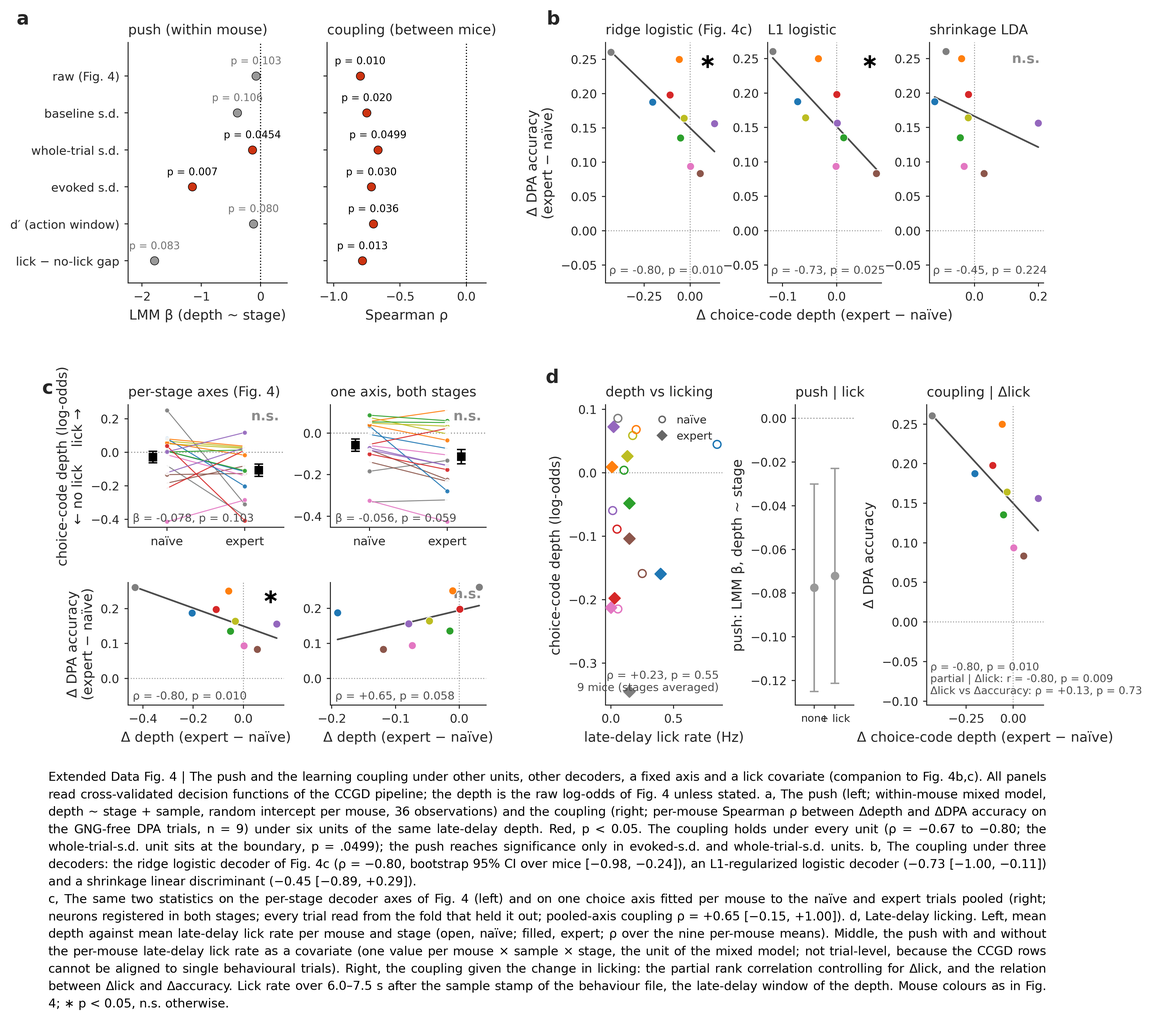
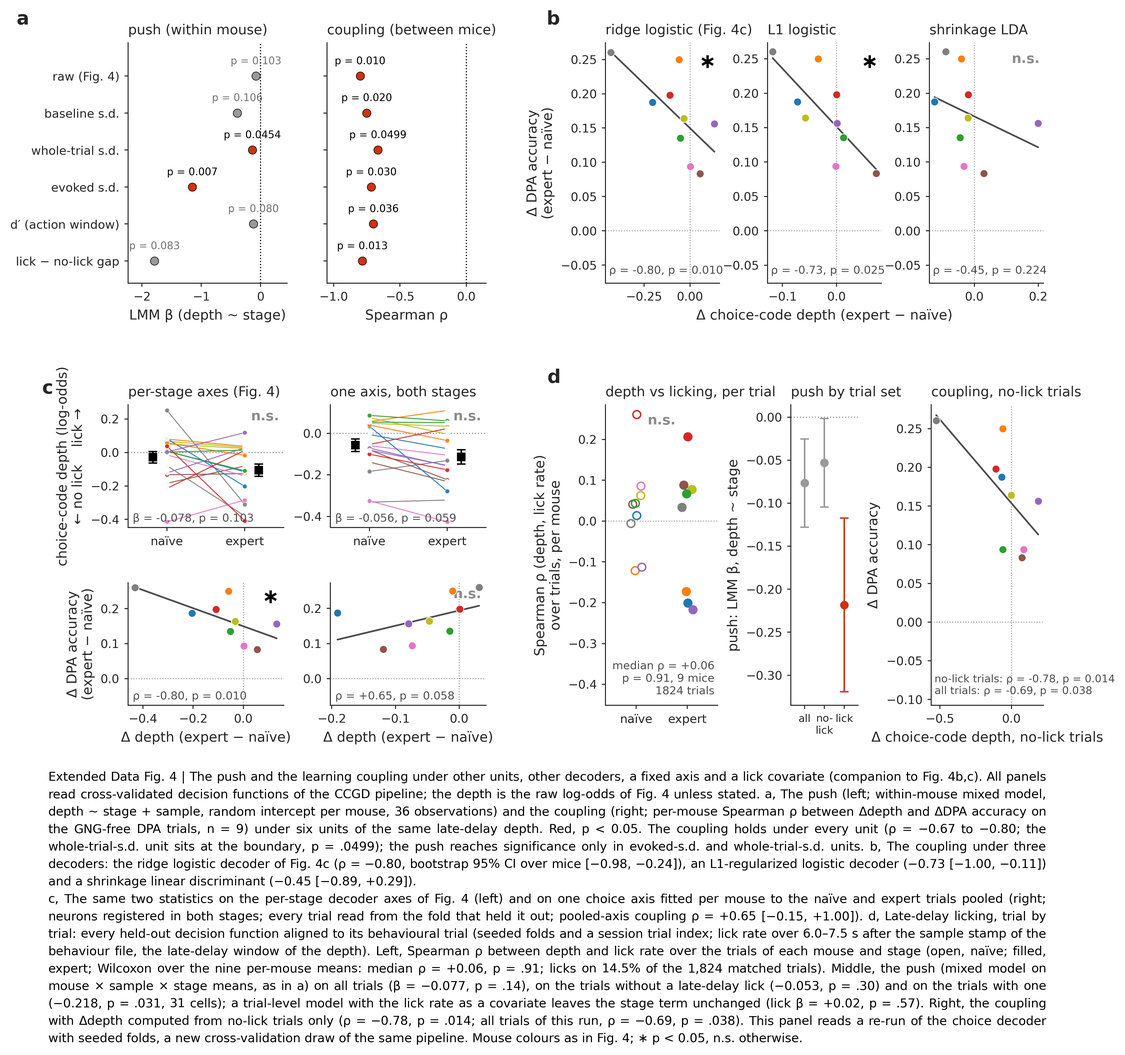
ED 4d: trial-level lick control on the CCGD depth (seeded folds + session trial index); draft v12.39
run_overlaps.py writes a within-session trial column and seeds RepeatedStratifiedKFold; choice-only re-run
--tag trial + exp_lick_control_trial.py align every held-out decision function to its behaviour-file trial.
Lick rate carries no depth information (per-mouse median ρ +0.06, p .91; covariate β +0.02, p .57); coupling
on no-lick trials ρ −0.78, p .014. The mouse-level control's .mat sample mapping (pair 1-4 = odor_pair
0,2,1,3) is fixed. §4 third caveat and the ED 4d legend rewritten; docs and memory synced.

Claude-Session: https://claude.ai/code/session_01PzGzWMKHPqqyp4poHedntF

diff --git a/overlaps/fig_ed3_coupling.py b/overlaps/fig_ed3_coupling.py
@@ -232,41 +232,44 @@ def panel_cc(fig, gs):
 
 # ══ d — late-delay licking on the CCGD depth (exp_lick_control_ccgd.py) ═══════════════════════
 def panel_dd(fig, gs):
-    L = C['lick_ccgd']; ms = L['ms']; g = L['g']
+    """ED 4d (2026-09-15, trial level): exp_lick_control_trial.py — every held-out CCGD decision function aligned to
+    its behavioural trial via the session trial index written by run_overlaps.py (`--tag trial` re-run)."""
+    L = C['lick_trial']; R = L['rho']
     axes = []
+    # left: per mouse x stage Spearman(depth, lick rate) over trials
     ax = fig.add_subplot(gs[0, 0]); axes.append(ax)
-    for _, r in ms.iterrows():
-        ax.scatter(r.lick, r.depth, s=30, color=MC[r.mouse], marker='o' if r.stage == 'Naive' else 'D',
-                   facecolors=MC[r.mouse] if r.stage == 'Expert' else 'none', linewidths=1.0, zorder=3)
-    per = ms.groupby('mouse')[['depth', 'lick']].mean(); rm, pm = spearmanr(per.depth, per.lick)   # per mouse, stages averaged (no pseudoreplication)
+    for _, r in R.iterrows():
+        ax.scatter(r.st + np.random.RandomState(MICE.index(r.mouse)).uniform(-0.12, 0.12), r.rho, s=30, color=MC[r.mouse],
+                   marker='o', facecolors=MC[r.mouse] if r.st == 1 else 'none', linewidths=1.0, zorder=3)
     ax.axhline(0, ls=':', color='0.6', lw=0.7)
-    ax.set_xlabel('late-delay lick rate (Hz)'); ax.set_ylabel('choice-code depth (log-odds)')
-    ax.set_title('depth vs licking', loc='left', fontsize=TITLE_FS)
-    ax.text(0.97, 0.04, f'ρ = {rm:+.2f}, p = {pm:.2f}\n9 mice (stages averaged)', transform=ax.transAxes, ha='right', va='bottom', fontsize=PS*6.5, color='0.3')
-    ax.legend(handles=[mlines.Line2D([0], [0], marker='o', mfc='none', color='0.4', ls='none', ms=4.5, label='naïve'),
-                       mlines.Line2D([0], [0], marker='D', color='0.4', ls='none', ms=4.5, label='expert')],
-              frameon=False, loc='upper right', handletextpad=0.3)
-    ax = fig.add_subplot(gs[0, 1]); axes.append(ax)
-    m0, m1 = L['m0'], L['m1']; ticks = []
-    for i, (lab, bta, se, p) in enumerate([('none', *m0), ('+ lick', *m1[:3])]):
+    ax.set_xticks([0, 1]); ax.set_xticklabels(['naïve', 'expert']); ax.set_xlim(-0.6, 1.6)
+    ax.set_ylabel('Spearman ρ (depth, lick rate)\nover trials, per mouse')
+    ax.set_title('depth vs licking, per trial', loc='left', fontsize=TITLE_FS)
+    pw = L['wilcoxon_p']; sig = pw < 0.05
+    ax.text(0.5, 0.97, '∗' if sig else 'n.s.', transform=ax.transAxes, ha='center', va='top', fontsize=PS*(12 if sig else 8), fontweight='bold', color='k' if sig else '0.55')
+    lo, hi = ax.get_ylim(); ax.set_ylim(lo - 0.40 * (hi - lo), hi)
+    ax.text(0.97, 0.03, f'median ρ = {L["per"].median():+.2f}\np = {pw:.2f}, 9 mice\n{L["n_trials"]} trials', transform=ax.transAxes, ha='right', va='bottom', fontsize=PS*6.5, color='0.3')
+    # middle: the push on all trials, on no-lick trials, and with a trial-level lick covariate
+    ax = fig.add_subplot(gs[0, 1]); axes.append(ax); ticks = []
+    for i, (lab, (bta, se, p)) in enumerate([('all', L['push_all'][:3]), ('no-lick', L['push_nolick'][:3]), ('lick', L['push_lick'][:3])]):
         col = SIGC if p < 0.05 else NSC
-        ax.errorbar(i, bta, se, fmt='o', color=col, ms=5, capsize=3, lw=1.1)
-        ticks.append(lab)
-    ax.axhline(0, ls=':', color='0.6', lw=0.8); ax.set_xticks([0, 1]); ax.set_xticklabels(ticks, fontsize=PS*6.2); ax.set_xlim(-0.9, 1.9)
-    ax.set_ylabel('push: LMM β, depth ~ stage'); ax.set_title('push | lick', loc='left', fontsize=TITLE_FS)
+        ax.errorbar(i, bta, se, fmt='o', color=col, ms=5, capsize=3, lw=1.1); ticks.append(lab)
+    ax.axhline(0, ls=':', color='0.6', lw=0.8); ax.set_xticks([0, 1, 2]); ax.set_xticklabels(['all', 'no-\nlick', 'lick'], fontsize=PS*6.2); ax.set_xlim(-0.7, 2.7)
+    ax.set_ylabel('push: LMM β, depth ~ stage'); ax.set_title('push by trial set', loc='left', fontsize=TITLE_FS)
+    # right: the coupling with Δdepth from no-lick trials only
     ax = fig.add_subplot(gs[0, 2]); axes.append(ax)
     gd = L['gd']
     for m in gd.index:
-        ax.scatter(gd.loc[m, 'dd'], gd.loc[m, 'da'], color=MC[m], s=30, edgecolors='w', linewidths=0.5, zorder=4)
-    z = np.polyfit(gd.dd, gd.da, 1); xx = np.array([gd.dd.min(), gd.dd.max()]); ax.plot(xx, np.polyval(z, xx), '-', color='0.3', lw=1.2)
+        ax.scatter(gd.loc[m, 'dd_nolick'], gd.loc[m, 'da'], color=MC[m], s=30, edgecolors='w', linewidths=0.5, zorder=4)
+    z = np.polyfit(gd.dd_nolick, gd.da, 1); xx = np.array([gd.dd_nolick.min(), gd.dd_nolick.max()]); ax.plot(xx, np.polyval(z, xx), '-', color='0.3', lw=1.2)
     ax.axhline(0, ls=':', color='0.6', lw=0.7); ax.axvline(0, ls=':', color='0.6', lw=0.7)
-    (r0, p0), (rp, pp), (rl, pl) = L['r0'], L['rp'], L['rl']
+    (r0, p0), (rn, pn) = L['r_all'], L['r_nolick']
     lo, hi = ax.get_ylim(); ax.set_ylim(lo - 0.32 * (hi - lo), hi)
-    ax.text(0.03, 0.03, f'ρ = {r0:+.2f}, p = {p0:.3f}\npartial | Δlick: r = {rp:+.2f}, p = {pp:.3f}\nΔlick vs Δaccuracy: ρ = {rl:+.2f}, p = {pl:.2f}',
-            transform=ax.transAxes, ha='left', va='bottom', fontsize=PS*6.2, color='0.3')
-    ax.set_xlabel('Δ choice-code depth (expert − naïve)'); ax.set_ylabel('Δ DPA accuracy')
-    ax.set_title('coupling | Δlick', loc='left', fontsize=TITLE_FS)
-    print(f'd: lick on {L["frac_lick"]:.1%} of trials; push {m0[0]:+.3f} p={m0[2]:.3f} -> {m1[0]:+.3f} p={m1[2]:.3f}; coupling ρ={r0:+.2f} p={p0:.3f} partial r={rp:+.2f} p={pp:.3f}')
+    ax.text(0.03, 0.03, f'no-lick trials: ρ = {rn:+.2f}, p = {pn:.3f}\nall trials: ρ = {r0:+.2f}, p = {p0:.3f}', transform=ax.transAxes, ha='left', va='bottom', fontsize=PS*6.2, color='0.3')
+    ax.set_xlabel('Δ choice-code depth, no-lick trials'); ax.set_ylabel('Δ DPA accuracy')
+    ax.set_title('coupling, no-lick trials', loc='left', fontsize=TITLE_FS)
+    print(f'd: licks on {L["frac_lick"]:.1%} of trials; per-mouse ρ median {L["per"].median():+.2f} p={pw:.3f}; push all {L["push_all"][0]:+.3f} p={L["push_all"][2]:.3f}, '
+          f'no-lick {L["push_nolick"][0]:+.3f} p={L["push_nolick"][2]:.3f}, lick {L["push_lick"][0]:+.3f} p={L["push_lick"][2]:.3f}; trial LMM +lick covariate β_st {L["lmm_lick"][0]:+.3f} p={L["lmm_lick"][2]:.3f} (lick β {L["lmm_lick"][3]:+.3f} p={L["lmm_lick"][4]:.3f}); coupling no-lick ρ={rn:+.2f} p={pn:.3f} (all ρ={r0:+.2f} p={p0:.3f})')
     return axes[0]
 
 
@@ -279,7 +282,7 @@ gsB = outer[0, 6:12].subgridspec(1, 3, wspace=0.42)
 axB = panel_c(fig, gsB)
 gsCC = outer[1, 0:5].subgridspec(2, 2, wspace=0.30, hspace=0.45)
 axCC = panel_cc(fig, gsCC)
-gsDD = outer[1, 6:12].subgridspec(1, 3, wspace=0.75, width_ratios=[1, 0.5, 1])
+gsDD = outer[1, 6:12].subgridspec(1, 3, wspace=0.75, width_ratios=[1, 0.6, 1])
 axDD = panel_dd(fig, gsDD)
 plabel(axA, 'a', dx=-0.62); plabel(axB, 'b', dx=-0.40); plabel(axCC, 'c', dx=-0.48); plabel(axDD, 'd', dx=-0.40)
 
@@ -296,13 +299,17 @@ CAP = [
     'discriminant (−0.45 [−0.89, +0.29]).',
     'c, The same two statistics on the per-stage decoder axes of Fig. 4 (left) and on one choice axis fitted per '
     'mouse to the naïve and expert trials pooled (right; neurons registered in both stages; every trial read from '
-    'the fold that held it out; pooled-axis coupling ρ = +0.65 [−0.15, +1.00]). d, Late-delay licking. Left, mean '
-    'depth against mean late-delay lick rate per mouse and stage (open, naïve; filled, expert; ρ over the nine '
-    'per-mouse means). Middle, the push with and without the per-mouse late-delay lick rate as a covariate (one value '
-    'per mouse × sample × stage, the unit of the mixed model; not trial-level, because the CCGD rows cannot be aligned '
-    'to single behavioural trials). Right, the coupling given the change in licking: the partial rank correlation '
-    'controlling for Δlick, and the relation between Δlick and Δaccuracy. Lick rate over 6.0–7.5 s after the sample '
-    'stamp of the behaviour file, the late-delay window of the depth. Mouse colours as in Fig. 4; ∗ p < 0.05, n.s. '
+    'the fold that held it out; pooled-axis coupling ρ = +0.65 [−0.15, +1.00]). d, Late-delay licking, trial by trial: '
+    'every held-out decision function aligned to its behavioural trial (seeded folds and a session trial index; lick '
+    'rate over 6.0–7.5 s after the sample stamp of the behaviour file, the late-delay window of the depth). Left, '
+    'Spearman ρ between depth and lick rate over the trials of each mouse and stage (open, naïve; filled, expert; '
+    'Wilcoxon over the nine per-mouse means: median ρ = +0.06, p = .91; licks on 14.5% of the 1,824 matched trials). '
+    'Middle, the push (mixed model on mouse × sample × stage means, as in a) on all trials (β = −0.077, p = .14), on the '
+    'trials without a late-delay lick (−0.053, p = .30) and on the trials with one (−0.218, p = .031, 31 cells); a '
+    'trial-level model with the lick rate as a covariate leaves the stage term unchanged (lick β = +0.02, p = .57). '
+    'Right, the coupling with Δdepth computed from no-lick trials only (ρ = −0.78, p = .014; all trials of this run, '
+    'ρ = −0.69, p = .038). This panel reads a re-run of the choice decoder with seeded folds, a new cross-validation '
+    'draw of the same pipeline. Mouse colours as in Fig. 4; ∗ p < 0.05, n.s. '
     'otherwise.',
 ]
 if not NOCAP:

diff --git a/overlaps/exp_lick_control_trial.py b/overlaps/exp_lick_control_trial.py
@@ -1,0 +1,110 @@
+"""exp_lick_control_trial.py — TRIAL-LEVEL late-delay lick control on the CCGD choice depth (ED 4d, 2026-09-15).
+
+The mouse x sample x stage control (exp_lick_control_ccgd.py) could not align tensor rows to behavioural trials
+because ccgd_validation returns rows in fold order. run_overlaps.py now writes a within-session `trial` index into
+the labels (and seeds its folds), and the choice decoder was re-run under `--tag trial`:
+    log_generalizing_overlaps_none_l1_ratio_0.0_raw_targets_choice_trial
+Every held-out decision function therefore maps to one row of the session's behaviour .mat (AllTrials order = imaging
+order: tasks and laser agree on 100 % of trials in all 47 readable sessions; .mat `sample` 1/2 = sample_odor 0/1,
+.mat `pair` 1-4 = odor_pair 0, 2, 1, 3). Depth as in Fig. 4: decoders trained at the decision window 54-62, read at
+late delay 45-53, RAW log-odds; laser-off DPA trials. Late-delay licks = lick times 6.0-7.5 s after the .mat `Sample`
+stamp (= imaging 7.5-9.0 s = bins 45-53).
+
+  1. trial-level association   per mouse x stage Spearman(depth, lick rate) -> Wilcoxon over the nine mice (stages
+                               averaged); trial-level LMM depth ~ stage + sample + lick rate + (1 | mouse)
+  2. push without licks        depth ~ stage + sample + (1 | mouse) on 36 mouse x sample x stage means computed
+                               from NO-LICK trials only (vs all trials, vs lick trials)
+  3. coupling without licks    per-mouse Spearman Δdepth (no-lick trials) vs ΔDPA accuracy (all DPA trials, as Fig. 4c)
+Dumps ed3_cache['lick_trial'].
+Run:  cd /home/leon/dual/overlaps && /home/leon/mambaforge/envs/dual/bin/python exp_lick_control_trial.py
+"""
+import sys, os, glob, warnings, pickle
+warnings.filterwarnings('ignore'); sys.path.insert(0, '/home/leon/dual/')
+os.chdir(os.path.dirname(os.path.abspath(__file__)))
+import numpy as np, pandas as pd, statsmodels.formula.api as smf
+from scipy.io import loadmat
+from scipy.stats import spearmanr, wilcoxon
+from src.pca.io import pkl_load
+from src.common.options import set_options
+
+PATH = '/storage/leon/dual_task/data/2Samples-DualTask-BehavioralData'
+MICE = ['JawsM01', 'JawsM06', 'JawsM12', 'JawsM15', 'JawsM18', 'ChRM04', 'ChRM23', 'ACCM03', 'ACCM04']
+TDUM = 'log_generalizing_overlaps_none_l1_ratio_0.0_raw_targets_choice_trial'
+ACT, LD, DELAY = np.arange(54, 63), np.arange(45, 54), (6.0, 7.5)
+
+# ── the CCGD depth, one row per held-out trial, with its session trial index ──
+y = pkl_load(f'labels_{TDUM}', path='../data/overlaps'); X = np.asarray(pkl_load(f'X_{TDUM}', path='../data/overlaps'))
+ch = (y.target == 'choice').to_numpy(); D = X[ch][:, 1, ACT, :].mean(1).astype(float); yc = y[ch].reset_index(drop=True); del X
+yc['depth'] = D[:, LD].mean(1)
+d = yc[(yc.laser == 0) & (yc.tasks == 'DPA')].copy()
+d['sample'] = np.where(d.odor_pair.isin([0, 1]), 'A', 'B'); d['st'] = (d.stage == 'Expert').astype(int)
+d['day'] = d.day.astype(int); d['trial'] = d.trial.astype(int)
+print(f'{len(d)} laser-off DPA held-out trials, {d.mouse.nunique()} mice')
+
+# ── behaviour: per-trial late-delay lick rate, keyed by (mouse, day, trial) ──
+beh = []
+for mouse in MICE:
+    for day in range(1, set_options(mouse=mouse)['n_days'] + 1):
+        f = glob.glob(f'{PATH}/{mouse}-DualTask-BehavioralData/day_{day}/*.mat')
+        if not f:
+            continue
+        try:
+            m = loadmat(f[0])
+        except Exception as e:
+            print(f'  skip {mouse} day {day}: {type(e).__name__}'); continue
+        onsets = m['Sample'][:, 0] / 1e3; licks = m['lickTime'][:, 0] / 1e3
+        tl = [licks[(licks >= onsets[i]) & (licks < onsets[i + 1])] - onsets[i] for i in range(len(onsets) - 1)]
+        tl.append(licks[licks >= onsets[-1]] - onsets[-1])
+        n = np.array([np.sum((r >= DELAY[0]) & (r < DELAY[1])) for r in tl])
+        tr = m['AllTrials'][0][0][-1]
+        beh.append(pd.DataFrame({'mouse': mouse, 'day': day, 'trial': np.arange(len(n)), 'nlick': n,
+                                 'lick_rate': n / (DELAY[1] - DELAY[0]), 'mat_sample': tr[:, 0].astype(int) - 1}))
+beh = pd.concat(beh, ignore_index=True)
+d = d.merge(beh, on=['mouse', 'day', 'trial'], how='inner')
+agree = (d.mat_sample == np.where(d['sample'] == 'A', 0, 1)).mean()
+print(f'{len(d)} trials matched to behaviour; sample identity agrees on {agree:.1%} (must be 100 %)')
+assert agree > 0.999
+d['licked'] = (d.nlick > 0).astype(int)
+print(f'late-delay licks on {d.licked.mean():.1%} of trials (naive {d[d.st == 0].licked.mean():.1%}, expert {d[d.st == 1].licked.mean():.1%})')
+
+# ── 1. trial-level association ──
+rows = []
+for (m, st), g in d.groupby(['mouse', 'st']):
+    if g.lick_rate.std() > 0:
+        r, p = spearmanr(g.depth, g.lick_rate); rows.append(dict(mouse=m, st=st, rho=r, p=p, n=len(g), frac=g.licked.mean()))
+RHO = pd.DataFrame(rows)
+per = RHO.groupby('mouse').rho.mean()
+wt = wilcoxon(per); print(f'trial-level Spearman(depth, lick rate) per mouse x stage: median ρ {RHO.rho.median():+.3f} '
+                          f'({len(RHO)} cells); per mouse (stages averaged) median {per.median():+.3f}, Wilcoxon p = {wt.pvalue:.3f}, {(per > 0).sum()}/{len(per)} positive')
+mt = smf.mixedlm('depth ~ st + C(sample) + lick_rate', d, groups=d['mouse']).fit()
+mt0 = smf.mixedlm('depth ~ st + C(sample)', d, groups=d['mouse']).fit()
+print(f'trial LMM  depth ~ st + sample            β_st={mt0.params["st"]:+.3f} ± {mt0.bse["st"]:.3f} p={mt0.pvalues["st"]:.3f}   ({len(d)} trials)')
+print(f'trial LMM  depth ~ st + sample + lick     β_st={mt.params["st"]:+.3f} ± {mt.bse["st"]:.3f} p={mt.pvalues["st"]:.3f}   lick β={mt.params["lick_rate"]:+.3f} p={mt.pvalues["lick_rate"]:.3f}')
+
+# ── 2. push on no-lick / lick trials (mouse x sample x stage means, 36 obs) ──
+def push(sub, lab):
+    g = sub.groupby(['mouse', 'sample', 'st']).depth.mean().reset_index()
+    f = smf.mixedlm('depth ~ st + C(sample)', g, groups=g['mouse']).fit()
+    print(f'push  {lab:22s} β={f.params["st"]:+.3f} ± {f.bse["st"]:.3f} p={f.pvalues["st"]:.3f}   ({len(g)} obs)')
+    return g, (float(f.params['st']), float(f.bse['st']), float(f.pvalues['st']), int(len(g)))
+g_all, p_all = push(d, 'all trials')
+g_nl, p_nl = push(d[d.licked == 0], 'no-lick trials')
+g_lk, p_lk = push(d[d.licked == 1], 'lick trials')
+
+# ── 3. coupling on no-lick trials ──
+def dd_of(g):
+    pv = g.pivot_table(index='mouse', columns='st', values='depth', aggfunc='mean'); return pv[1] - pv[0]
+acc = d.groupby(['mouse', 'st']).performance.mean().unstack(); da = acc[1] - acc[0]
+gd = pd.DataFrame({'dd_all': dd_of(g_all), 'dd_nolick': dd_of(g_nl), 'da': da}).dropna()
+r_all, p_rall = spearmanr(gd.dd_all, gd.da); r_nl, p_rnl = spearmanr(gd.dd_nolick, gd.da)
+print(f'coupling Δdepth vs ΔDPA acc: all trials ρ={r_all:+.2f} p={p_rall:.3f}; no-lick trials ρ={r_nl:+.2f} p={p_rnl:.3f}  ({len(gd)} mice)')
+
+C = 'figures/overlaps/controls/ed3_cache.pkl'
+c = pickle.load(open(C, 'rb')) if os.path.exists(C) else {}
+c['lick_trial'] = dict(rho=RHO, per=per, wilcoxon_p=float(wt.pvalue), n_trials=int(len(d)), frac_lick=float(d.licked.mean()),
+                       frac_lick_stage=(float(d[d.st == 0].licked.mean()), float(d[d.st == 1].licked.mean())),
+                       lmm0=(float(mt0.params['st']), float(mt0.bse['st']), float(mt0.pvalues['st'])),
+                       lmm_lick=(float(mt.params['st']), float(mt.bse['st']), float(mt.pvalues['st']), float(mt.params['lick_rate']), float(mt.pvalues['lick_rate'])),
+                       push_all=p_all, push_nolick=p_nl, push_lick=p_lk, gd=gd,
+                       r_all=(float(r_all), float(p_rall)), r_nolick=(float(r_nl), float(p_rnl)))
+pickle.dump(c, open(C, 'wb')); print('cached ed3_cache[lick_trial]')

diff --git a/overlaps/exp_lick_control_ccgd.py b/overlaps/exp_lick_control_ccgd.py
@@ -59,19 +59,21 @@ for mouse in MICE:
         df = pd.DataFrame(tr, columns=['sample', 'test', 'outcome', 'pair', 'distractor', 'cue', 'odr_outcome', 'odr_pair', 'laser'])
         df['tasks'] = df['distractor'].map({0: 'DPA', 1: 'DualGo', 2: 'DualNoGo'}); df['lick_delay'] = rate
         df['day'] = day; df['mouse'] = mouse; beh.append(df)
-beh = pd.concat(beh, ignore_index=True)
+beh = pd.concat(beh, ignore_index=True); beh_all = beh.copy()
 # stage of each behavioural day = the stage the tensor assigns to that (mouse, day)
 stage_of = yc.groupby(['mouse', 'day']).stage.first().to_dict()
 beh['stage'] = [stage_of.get((m, float(dd))) for m, dd in zip(beh.mouse, beh.day)]
 beh = beh[(beh.laser == 0) & (beh.tasks == 'DPA') & beh.stage.notna()].copy()
-# sample class from the .mat 'pair' column (1-4 = odor_pair 0-3; pairs 1,2 = sample A, 3,4 = sample B, the
-# paper's convention) — verified against the tensor's per-day A/B counts below
-beh['sclass'] = np.where(beh['pair'].isin([1, 2]), 'A', 'B')
-chk = []
-for (m, dd), g in beh.groupby(['mouse', 'day']):
-    t = d[(d.mouse == m) & (d.day == dd)]
-    chk.append((g.sclass == 'A').sum() == (t['sample'] == 'A').sum())
-print(f'sample-class alignment: {np.mean(chk):.0%} of mouse-days agree on the A/B split')
+# sample class from the .mat 'sample' column (1/2 = sample_odor 0/1 = A/B). 2026-09-15 (later) FIX: the first build used
+# pair.isin([1, 2]) -> A, but .mat pair 1-4 = odor_pair 0, 2, 1, 3, so that mixed the samples; the old count check could
+# not see it (A and B are balanced per session). Verified trial by trial against y_all_nan_ (session order = imaging order).
+beh['sclass'] = np.where(beh['sample'] == 1, 'A', 'B')
+_y = pkl_load('y_all_nan_', path='../data/pca'); chk = []
+for (m, dd), g in beh_all.groupby(['mouse', 'day']):
+    t = _y[(_y.mouse == m) & (_y.day == dd)]
+    chk.append(np.mean((g['sample'].to_numpy() - 1) == t.sample_odor.to_numpy()) if len(t) == len(g) else 0.0)
+print(f'sample-class alignment: .mat sample == sample_odor on {np.min(chk):.0%}-{np.max(chk):.0%} of trials per session')
+assert np.min(chk) > 0.999
 lick = beh.groupby(['mouse', 'sclass', 'stage']).lick_delay.mean().rename('lick').reset_index().rename(columns={'sclass': 'sample'})
 
 # ── per mouse x sample x stage table ──

diff --git a/docs/paper/results_draft.md b/docs/paper/results_draft.md
@@ -1,5 +1,13 @@
 # Compositional learning by geometric editing — main paper (draft v12)
 
+> **v12.39 (2026-09-15): TRIAL-LEVEL LICK CONTROL ON THE CCGD DEPTH** (Leon: "run the seeded CCGD tensor for the lick control").
+> `run_overlaps.py` writes a within-session `trial` index and seeds `RepeatedStratifiedKFold`; choice-only re-run `--tag trial`
+> (8.1 min) + `exp_lick_control_trial.py`. Every held-out decision function now maps to its behaviour-file trial (order verified
+> on all 47 readable sessions). Lick rate carries no depth information trial by trial (per-mouse median ρ +0.06, p .91; covariate
+> β +0.02, p .57); coupling on no-lick trials ρ −0.78, p .014 (all trials of this re-run −0.69, p .038 — a new CV draw of the
+> decoder); raw push a trend on every trial subset. ED 4d rebuilt at the trial level; §4 third caveat rewritten. Also found and
+> fixed: the mouse-level control had mis-assigned the .mat sample classes (`pair` 1–4 = odor_pair 0, 2, 1, 3).
+
 > **v12.38 (2026-09-15): REFIT-dPCA MOUSE BOOTSTRAP — THE CHOICE–TASK ALIGNMENT INCREASE IS NOT RESOLVED** (Leon: "run the
 > refit-dPCA bootstrap"). `pca/exp_dpca_refit_boot.py` (6.9 min) re-fits dPCA on every resampled set of nine mice (1,000 draws)
 > instead of resampling neuron columns of the fixed axes: choice–task Δ +0.076 [−0.030, +0.316] p = .17 (fixed-axis: [+0.017,
@@ -735,7 +743,7 @@ of trials. Within naïve unpaired trials, the trial-by-trial depth of the state 
 detectably separate correct rejections from false alarms (Fig. 4d; sample A Δ(CR−FA) = −1.05, p = 0.26; sample B +1.17, p = 0.49), so we found no evidence that the repositioning is a
 within-stage readout of accuracy rather than a between-animal learning effect. Second, what
 moved was the position of the state rather than the code itself, since we found no detectable
-change in the discriminability of the choice code across learning (Fig. 4e; d′ 0.55 → 0.63, Δ = +0.09, p = 0.57). Third, late-delay licks were rare (one laser-off DPA trial in seven carried one over the late-delay window; 0.19 Hz naïve → 0.11 Hz expert), their rate did not track the depth of the state across mice and stages (ρ = +0.09, p = 0.72), and a per-mouse lick covariate left the push (β = −0.08 → −0.07) and the coupling (partial ρ = −0.80, p = 0.009) unchanged (Extended Data Fig. 4d). Two caveats also apply.
+change in the discriminability of the choice code across learning (Fig. 4e; d′ 0.55 → 0.63, Δ = +0.09, p = 0.57). Third, late-delay licks were rare (one laser-off DPA trial in seven carried one over the late-delay window; 18% of naïve and 10% of expert trials), and trial by trial their rate carried no information about the depth of the state (Spearman ρ within mouse and stage, median +0.06, p = 0.91 over mice; lick-rate covariate β = +0.02, p = 0.57); the coupling held on the trials without a lick (ρ = −0.78, p = 0.014; Extended Data Fig. 4d). Two caveats also apply.
 The push is directional rather than a precise magnitude, because part of the per-stage change
 is a reorganization of the decoder axis itself: in the raw units of Fig. 4 it is a trend (p = 0.10) that reaches significance only in evoked-s.d. (p = 0.007) and whole-trial-s.d. (p = 0.045) units, remaining a trend of the same sign (p = 0.08–0.11) under the other normalizations of the axis (Extended Data Fig. 4a), and on one axis fitted to both stages together it is a trend of the same sign (β = −0.06, p = 0.059; Extended Data Fig. 4c). And the
 behavioral coupling is an individual-difference correlation over nine animals, whose robustness
@@ -1482,21 +1490,26 @@ pooled (right; `run_overlaps.py --pool-stages`; neurons registered in both stage
 that held it out): the push is a trend of the same sign (β = −0.056, p = .059), whereas the coupling does not hold
 and reverses as a trend (ρ = +0.65, p = .058; bootstrap 95% CI over mice [−0.15, +1.00]) — the coupling is carried by
 the stage-specific readouts. d,
-Late-delay licking on the CCGD depth. Left, mean depth against mean late-delay lick rate (6.0–7.5 s after the
-behaviour file's sample stamp = the 7.5–9.0 s late-delay window of the depth) per mouse and stage (open, naïve;
-filled, expert; ρ = +0.23, p = .55 over the nine per-mouse means, stages averaged; licks on 14.5% of laser-off DPA
-trials, 0.19 → 0.11 Hz). Middle, the push with and without the per-mouse late-delay lick rate as a covariate (one
-value per mouse × sample × stage, the unit of the mixed model, not trial-level: the CCGD rows cannot be aligned to
-single behavioural trials; β = −0.078, p = .103 → −0.072, p = .142). Right, the
-coupling given the change in licking (ρ = −0.80, p = .010; partial rank correlation controlling for Δlick,
-r = −0.80, p = .009; Δlick against Δaccuracy, ρ = +0.13, p = .73).
+Late-delay licking, trial by trial: every held-out decision function aligned to its behavioural trial (seeded folds and a
+session trial index; lick rate over 6.0–7.5 s after the behaviour file's sample stamp = the 7.5–9.0 s late-delay window of
+the depth). Left, Spearman ρ between depth and lick rate over the trials of each mouse and stage (open, naïve; filled,
+expert; Wilcoxon over the nine per-mouse means: median ρ = +0.06, p = .91; licks on 14.5% of the 1,824 matched trials,
+17.9% naïve, 10.1% expert). Middle, the push (mixed model on mouse × sample × stage means, as in a) on all trials
+(β = −0.077, p = .14), on the trials without a late-delay lick (−0.053, p = .30) and on the trials with one (−0.218,
+p = .031, 31 cells); a trial-level model with the lick rate as a covariate leaves the stage term unchanged (lick β = +0.02,
+p = .57). Right, the coupling with Δdepth computed from no-lick trials only (ρ = −0.78, p = .014; all trials of this run,
+ρ = −0.69, p = .038). This panel reads a re-run of the choice decoder with seeded folds, a new cross-validation draw of
+the same pipeline.
 
 > **REINSTATED 2026-09-15 (Leon: "reinstate the fixed-axis and lick controls with the CCGD pipeline").** The two
 > controls withdrawn earlier the same day (they projected training trials on fold-averaged weights) are back on
 > held-out CCGD decision functions: `run_overlaps.py --pool-stages` (new option; 7.6 min) fits one choice decoder
 > per mouse on both stages, `exp_common_axis_ccgd.py` and `exp_lick_control_ccgd.py` produce the cache. The lick
 > control is at the mouse × sample × stage level because the CCGD rows come back in unseeded fold order and cannot be
-> aligned to individual behavioural trials. NEW RESULT: on the pooled axis the coupling REVERSES as a trend
+> aligned to individual behavioural trials — SUPERSEDED later the same day: `run_overlaps.py` now writes a within-session
+> `trial` index and seeds its folds; a choice-only re-run under `--tag trial` (8.1 min) plus `exp_lick_control_trial.py`
+> give the trial-level panel above (the mouse-level build also had the .mat sample classes mis-assigned — `pair` 1–4 =
+> odor_pair 0, 2, 1, 3 — fixed in `exp_lick_control_ccgd.py`, gallery only now). NEW RESULT: on the pooled axis the coupling REVERSES as a trend
 > (ρ = +0.65, p = .058), where the old non-cross-validated control had said "weakens to a trend, ρ = −0.63" — §4 now
 > states the reversal.
 

diff --git a/docs/overlaps/overview.md b/docs/overlaps/overview.md
@@ -31,6 +31,13 @@
 > per-mouse CCGP became ALL laser-off trials on the canonical windows: `fig_ccgp.py --canon --alltrials` (19 min) →
 > `permouse_ccgp_cache_canon_all.pkl`, drawn by `pca/fig_ed2_plane.py` as ED 1b — sample .68, GNG .84, test .58, choice
 > .61 expert; test Δ +0.02 p .074, so the test code's low CCGP is not the lick showing through; draft v12.36.)_
+> _(2026-09-15, later: `run_overlaps.py` now writes a within-session `trial` column into the labels and seeds its
+> `RepeatedStratifiedKFold` with `--random-state` (default 0; dum unchanged). A choice-only re-run under `--tag trial`
+> (8.1 min; `..._raw_targets_choice_trial`) + `exp_lick_control_trial.py` give ED 4d at the TRIAL level: every held-out
+> decision function maps to its behaviour-file trial (AllTrials order = imaging order, verified on all 47 readable sessions;
+> .mat `sample` 1/2 = A/B, `pair` 1-4 = odor_pair 0, 2, 1, 3). Lick rate carries no depth information (per-mouse median
+> ρ +0.06 p .91; covariate β +0.02 p .57); coupling on no-lick trials ρ −0.78 p .014; this re-run's all-trial coupling is
+> ρ −0.69 p .038 — the canonical −0.80 is one CV draw of the decoder, expect ±0.1 across draws. Draft v12.39.)_
 
 > **CANONICAL AXIS WINDOWS since 2026-09-08 (Leon: "same windows for all panels").** Sample and distractor decoder axes = bins **36–38** (6.0–6.5 s, post-distractor pre-cue); choice and test axes = bins **54–62** (9.0–10.5 s, test onset → 0.5 s after test offset) — the SAME bin indices in the overlaps (CCGD) and pseudo-population pipelines. Every "57–62 / 16–47 / 58–83 / 33–38 / 57–65 / 45–59 (opto depth)" axis window quoted below is the pre-flip convention (reachable with `--legacyaxes`); read-out windows (mid-delay 33–38 or 36–38, late delay 45–53 or 48–53, Fig 3b decision read 60–66) are unchanged. Numbers under the new axes: Fig 4 push β = −1.15 p = .007, coupling ρ = −0.72 p = .030 (norm battery all p ≤ .05, leave-one-out 4/9); Fig 3c choice out-vs-full a trend (p = .098); Fig 3e T/W 0.90 / 0.72; Fig 6 ΔGNG clustered p = .009. Variant table (windows A–E) and the flip recipe: memory `project_axis_windows.md`; text audit = draft v12.20 banner in `docs/paper/results_draft.md`.
 

diff --git a/docs/overlaps/routines.md b/docs/overlaps/routines.md
@@ -19,6 +19,9 @@
 > laser-vector), so the ED robustness panels lag the main figures. _(2026-09-15: old ED 5 → ED 3 → ED 4 after the citation-order renumbering; old ED 6 → ED 2 → ED 1. ED 4c,d now come from the CCGD
 > pipeline — `run_overlaps.py --pool-stages`, `exp_common_axis_ccgd.py`, `exp_lick_control_ccgd.py` — not from these
 > scripts' held-out re-fits, which are gallery-only.)_
+> _(ED 4d is now TRIAL-level: `run_overlaps.py --scaler none --targets choice --contexts all --tag trial` (8.1 min; the labels
+> carry a `trial` column since 2026-09-15, folds seeded) then `exp_lick_control_trial.py` (0.1 min) → `ed3_cache['lick_trial']`;
+> `exp_lick_control_ccgd.py` (mouse × sample × stage) is superseded, kept for the gallery with its .mat sample mapping fixed.)_
 
 > **CANONICAL AXIS WINDOWS since 2026-09-08 (Leon: "same windows for all panels").** Sample and distractor decoder axes = bins **36–38** (6.0–6.5 s, post-distractor pre-cue); choice and test axes = bins **54–62** (9.0–10.5 s, test onset → 0.5 s after test offset) — the SAME bin indices in the overlaps (CCGD) and pseudo-population pipelines. Every "57–62 / 16–47 / 58–83 / 33–38 / 57–65 / 45–59 (opto depth)" axis window quoted below is the pre-flip convention (reachable with `--legacyaxes`); read-out windows (mid-delay 33–38 or 36–38, late delay 45–53 or 48–53, Fig 3b decision read 60–66) are unchanged. Numbers under the new axes: Fig 4 push β = −1.15 p = .007, coupling ρ = −0.72 p = .030 (norm battery all p ≤ .05, leave-one-out 4/9); Fig 3c choice out-vs-full a trend (p = .098); Fig 3e T/W 0.90 / 0.72; Fig 6 ΔGNG clustered p = .009. Variant table (windows A–E) and the flip recipe: memory `project_axis_windows.md`; text audit = draft v12.20 banner in `docs/paper/results_draft.md`.
 

diff --git a/docs/rebuild_timings.md b/docs/rebuild_timings.md
@@ -91,3 +91,6 @@ place or from somewhere less direct.
 | 2026-09-15 17:04 | all-trial replications 2026-09-15 | fig_ccgp.py --canon --alltrials | 19.0 | measured |
 | 2026-09-15 17:42 | per-animal shattering 2026-09-15 | exp_shatter_permouse.py (LOO jackknife 18x8 + own-population 18x20, 462 dich., 36 workers) | 0.7 | measured |
 | 2026-09-15 17:58 | refit-dPCA bootstrap 2026-09-15 | exp_dpca_refit_boot.py (X_all_blcenter load + 1000 mouse draws x 2 stages refit, 36 workers) | 6.9 | measured |
+| 2026-09-15 18:03 | trial-level lick control 2026-09-15 | exp_lick_control_ccgd.py re-run with the corrected .mat sample mapping | 0.1 | measured |
+| 2026-09-15 18:07 | trial-level lick control 2026-09-15 | run_overlaps.py --scaler none --targets choice --tag trial (seeded folds, trial index column; 9 mice x 2 stages) | 8.1 | measured |
+| 2026-09-15 18:07 | trial-level lick control 2026-09-15 | exp_lick_control_trial.py (tensor + .mat per-trial licks) | 0.1 | measured |
